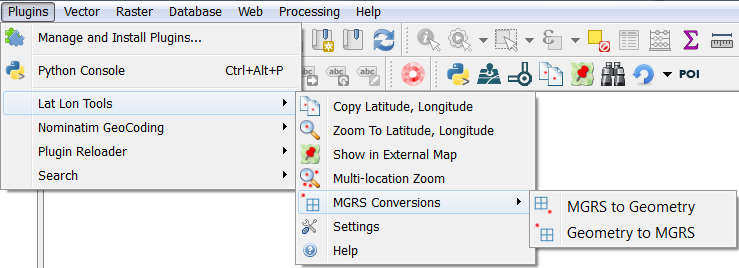
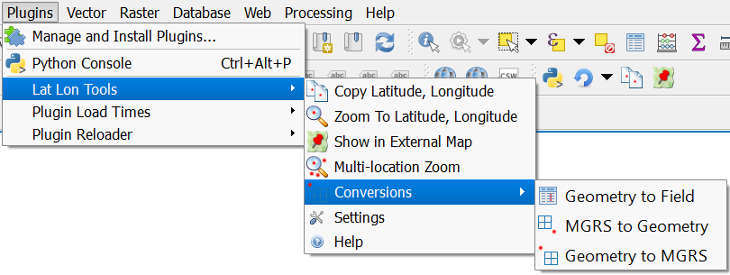
updated documentation

diff --git a/readme.md b/readme.md
@@ -55,7 +55,11 @@
     
     * The ***Show all markers*** displays markers of all locations.
 
-* ***MGRS Conversions***
+* ***Conversions***
+    * <img src="images/geom2field.png" alt="Geometry to Field"> ***Geometry to Field*** - This takes a point vector layer and creates a new layer with the layer's latitude, longitude (Y, X) copied into one or two text fields in the new layer. The user has a lot of flexability as to the output format. For Wgs84 the output can be in decimal degrees or DMS. Other formats are GeoJSON, WKT, and MGRS. 
+    
+    <div style="text-align:center"><img src="doc/geom2field.jpg" alt="Geometry to Field"></div>
+    
     * <img src="images/mgrs2point.png" alt="MGRS to Geometry"> ***MGRS to Geometry*** - This takes a table or vector layer and if there is a field that contains MGRS coordinates, it converts the layer to a new point vector layer where each record is converted to WGS 84 (EPSG:4326) geometry.
     
     <div style="text-align:center"><img src="doc/mgrs2geom.jpg" alt="MGRS to Geometry"></div>
